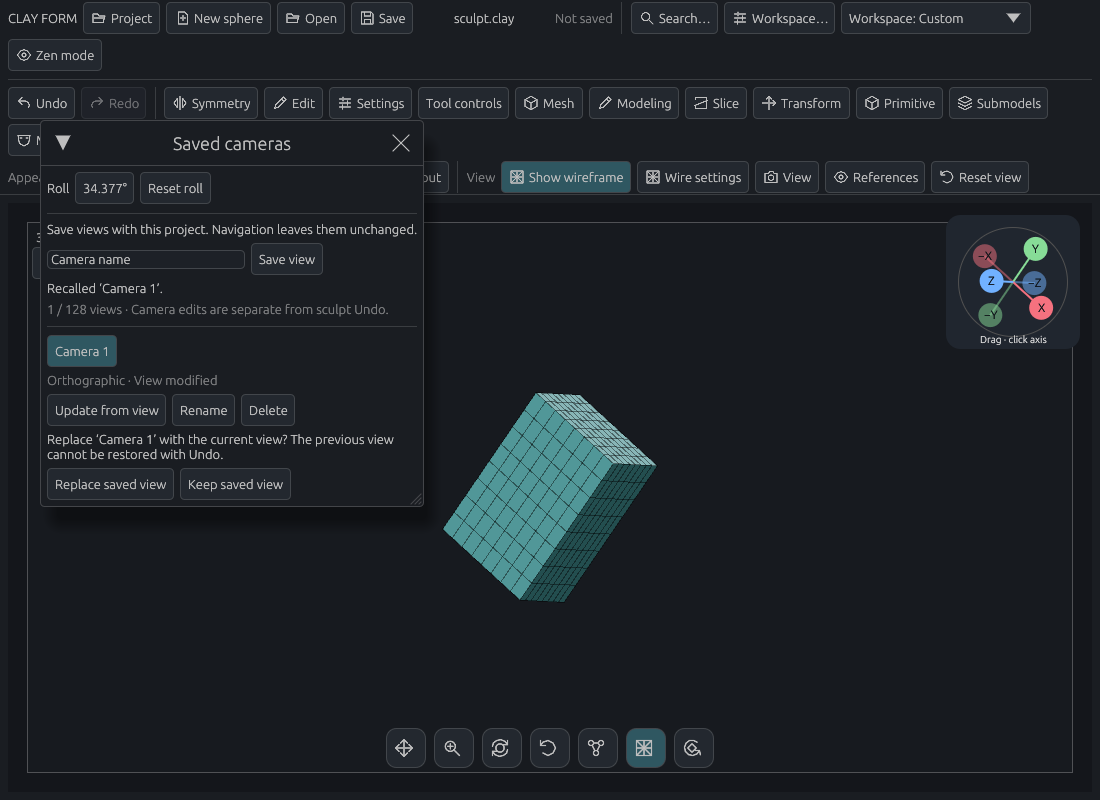
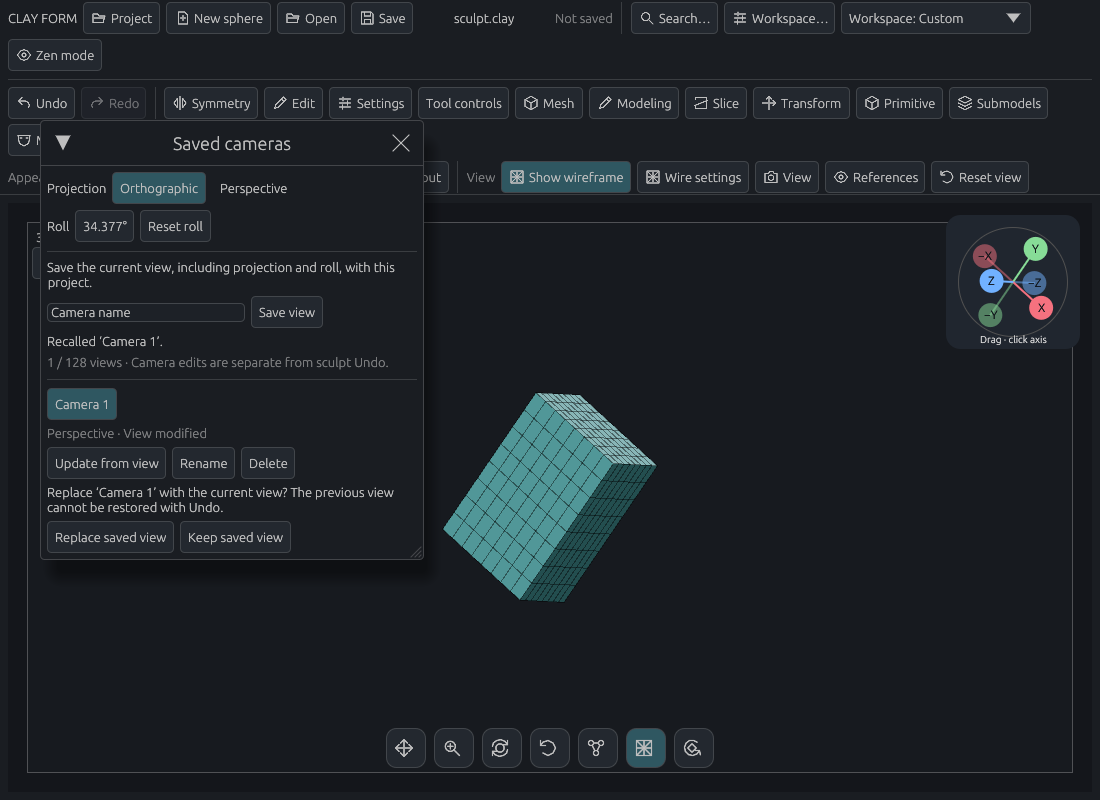
Expose projection choices in saved camera controls

Changed region(s): [[0.0309, 0.2188, 0.3709, 0.6875]]

diff --git a/src/ui/cameras.rs b/src/ui/cameras.rs
@@ -74,6 +74,15 @@ impl UiState {
                 if let Some(reason) = reason { ui.label(reason); }
                 ui.add_enabled_ui(reason.is_none(), |ui| {
                     ui.horizontal_wrapped(|ui| {
+                        ui.label("Projection");
+                        if ui.selectable_label(!camera.perspective, "Orthographic").on_hover_text("Use parallel projection for the current view. Save or update a camera to keep it.").clicked() {
+                            commands.push(Command::SetPerspective(false));
+                        }
+                        if ui.selectable_label(camera.perspective, "Perspective").on_hover_text("Show depth and foreshortening in the current view. Save or update a camera to keep it.").clicked() {
+                            commands.push(Command::SetPerspective(true));
+                        }
+                    });
+                    ui.horizontal_wrapped(|ui| {
                         ui.label("Roll");
                         let mut degrees = camera.roll.to_degrees();
                         if ui.add(egui::DragValue::new(&mut degrees).speed(0.5).suffix("°")).on_hover_text("Clockwise rotation around the viewing axis. Drag or type an angle.").changed() {
@@ -84,7 +93,7 @@ impl UiState {
                         }
                     });
                     ui.separator();
-                    ui.label("Save views with this project. Navigation leaves them unchanged.");
+                    ui.label("Save the current view, including projection and roll, with this project.");
                     let cameras = document.saved_cameras();
                     let mut name_error = None;
                     ui.horizontal_wrapped(|ui| {
@@ -108,7 +117,7 @@ impl UiState {
                     }
                     ui.weak(format!("{} / {} views · Camera edits are separate from sculpt Undo.", cameras.len(), crate::saved_camera::MAX_CAMERAS));
                     if cameras.is_empty() { ui.weak("No saved cameras in this project yet."); }
-                    egui::ScrollArea::vertical().id_salt("saved_camera_list").max_height((ctx.content_rect().height() - 350.).max(100.)).show(ui, |ui| {
+                    egui::ScrollArea::vertical().id_salt("saved_camera_list").max_height((ctx.content_rect().height() - 380.).max(100.)).show(ui, |ui| {
                         for (index, saved) in cameras.iter().enumerate() {
                             ui.push_id(index, |ui| {
                                 ui.separator();

diff --git a/src/app/tests/cameras_capture.rs b/src/app/tests/cameras_capture.rs
@@ -29,11 +29,24 @@ fn saved_cameras_offscreen_review() {
         click_guide_label(&mut g, "Cameras…");
         g.frame(vec![]);
         g.frame(vec![]);
+        click_guide_label(&mut g, "Perspective");
+        assert!(g.app.camera.perspective);
         click_guide_label(&mut g, "Save view");
         assert_eq!(g.app.document.saved_cameras().len(), 1);
+        assert!(g.app.document.saved_cameras()[0].view.perspective);
         let before = g.app.camera;
+        click_guide_label(&mut g, "Orthographic");
+        assert!(!g.app.camera.perspective);
+        assert!(g.app.document.saved_cameras()[0].view.perspective);
+        let orthographic = g.app.camera;
         click_guide_label(&mut g, "Reset roll");
-        assert_eq!(g.app.camera, Camera { roll: 0., ..before });
+        assert_eq!(
+            g.app.camera,
+            Camera {
+                roll: 0.,
+                ..orthographic
+            }
+        );
         click_guide_label(&mut g, "Camera 1");
         assert_eq!(g.app.camera, before);
         if size[0] == 1100 {
@@ -46,6 +59,8 @@ fn saved_cameras_offscreen_review() {
         }
         g.save(&format!("saved-cameras-{}", size[0]));
         let saved = g.app.document.saved_cameras()[0].clone();
+        click_guide_label(&mut g, "Orthographic");
+        assert!(!g.app.camera.perspective);
         g.app.camera.roll_by(0.2);
         click_guide_label(&mut g, "Update from view");
         assert_eq!(
@@ -67,6 +82,7 @@ fn saved_cameras_offscreen_review() {
             g.app.camera.roll
         );
         assert_eq!(g.app.document.saved_cameras().len(), 1);
+        assert!(!g.app.document.saved_cameras()[0].view.perspective);
         if size[0] == 1100 {
             camera_name_input(&mut g, "camera_save_name_rect", "Detail");
             click_guide_label(&mut g, "Save view");

diff --git a/docs/guide/navigation.md b/docs/guide/navigation.md
@@ -45,6 +45,8 @@ Drag **Roll view** right for clockwise roll or left for counterclockwise roll. D
 
 Open **Cameras…** in the viewport, or **View → Saved cameras…**:
 
+Choose **Orthographic** or **Perspective** beside **Projection** at the top of the window to change the current view. **Save view** stores that choice; **Update from view → Replace saved view** stores it in an existing camera. Switching projection alone leaves saved cameras unchanged. Recalling a camera restores its projection and updates the selector.
+
 1. Enter a name and click **Save view**. Leaving the name empty creates a numbered camera. A successful save clears the name field and highlights the new camera. Save controls and feedback stay above the scrolling library.
 2. Click a saved camera's name to return to it. This restores orientation including roll, pan, zoom, projection mode, field of view and perspective distance. The orbit pivot remains the shared model-space origin. Pan scales with the viewport's shorter dimension to preserve relative framing after resizing or changing the panel layout.
 3. Navigate normally. The selected camera stays highlighted and shows **View modified** when you move away from its saved framing. **Update from view** asks before overwriting: choose **Replace saved view** to commit, or **Keep saved view** to cancel. The old view cannot be restored through sculpt Undo.
